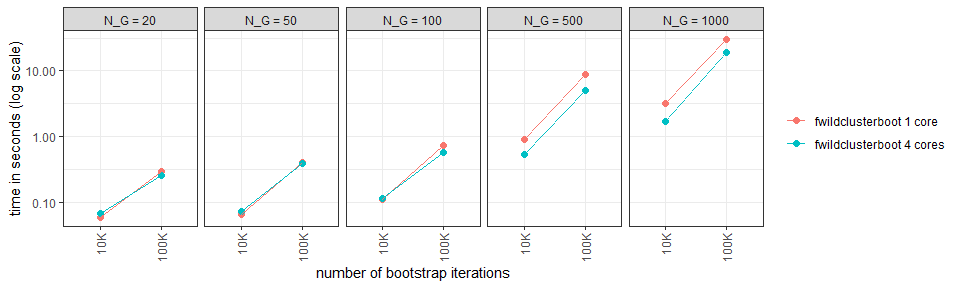
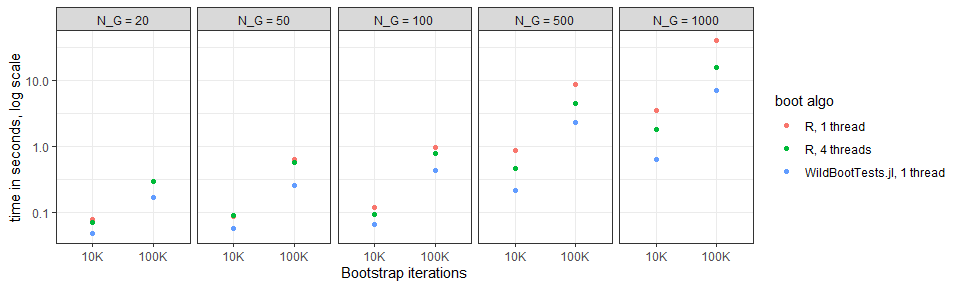
#33 add benchmarks of WildBootTests.jl to readme

diff --git a/README.md b/README.md
@@ -125,9 +125,6 @@ each, median runtime is plotted).
 
 <img src="man/figures/README-unnamed-chunk-4-1.png" width="100%" />
 
-<!-- For a small number of clusters, `fwildclusterboot` is in generally faster than implementations of the wild cluster bootstrap in the `sandwich` and `clusterSEs` packages.  -->
-<!-- ![Benchmark](man/figures/bench_ggplot.png) -->
-
 ### Installation
 
 You can install compiled versions of`fwildclusterboot` from CRAN and the
